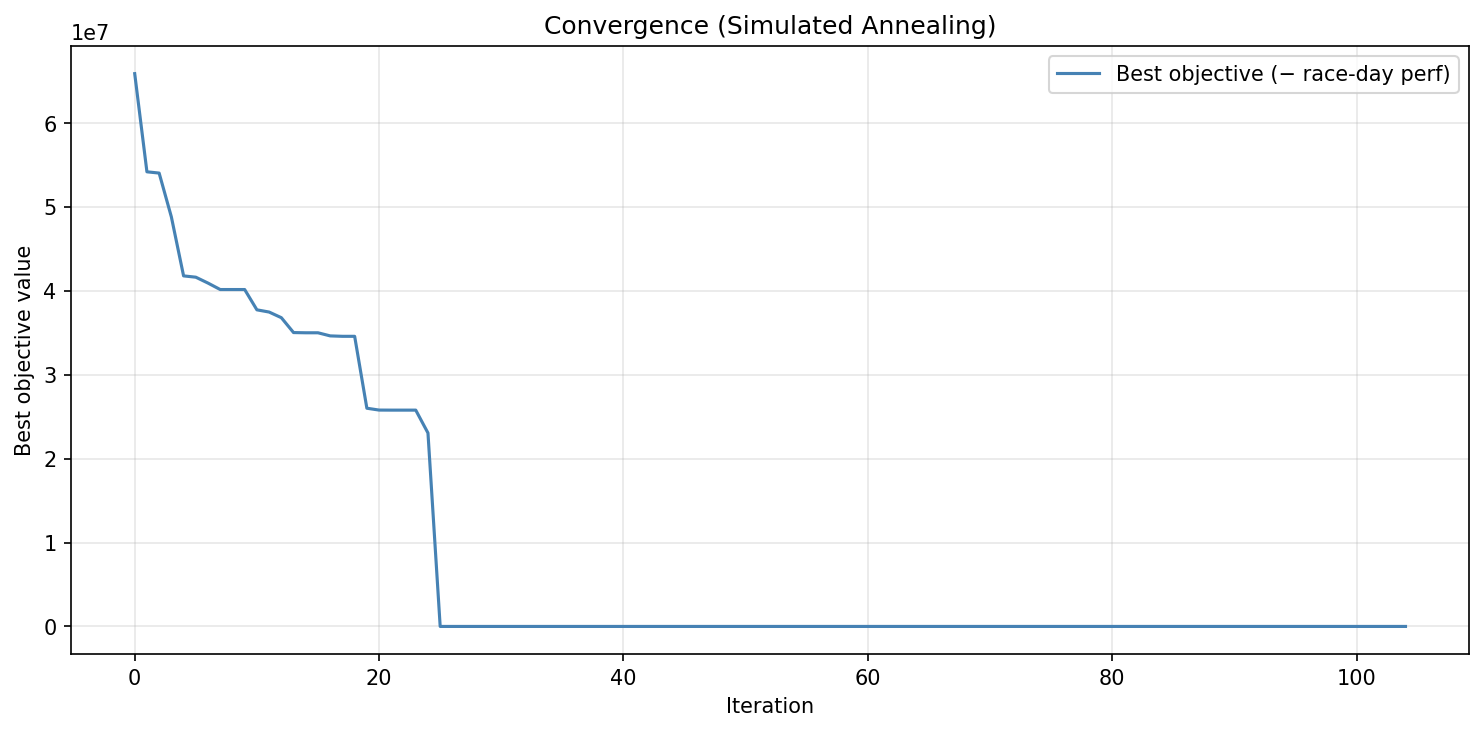
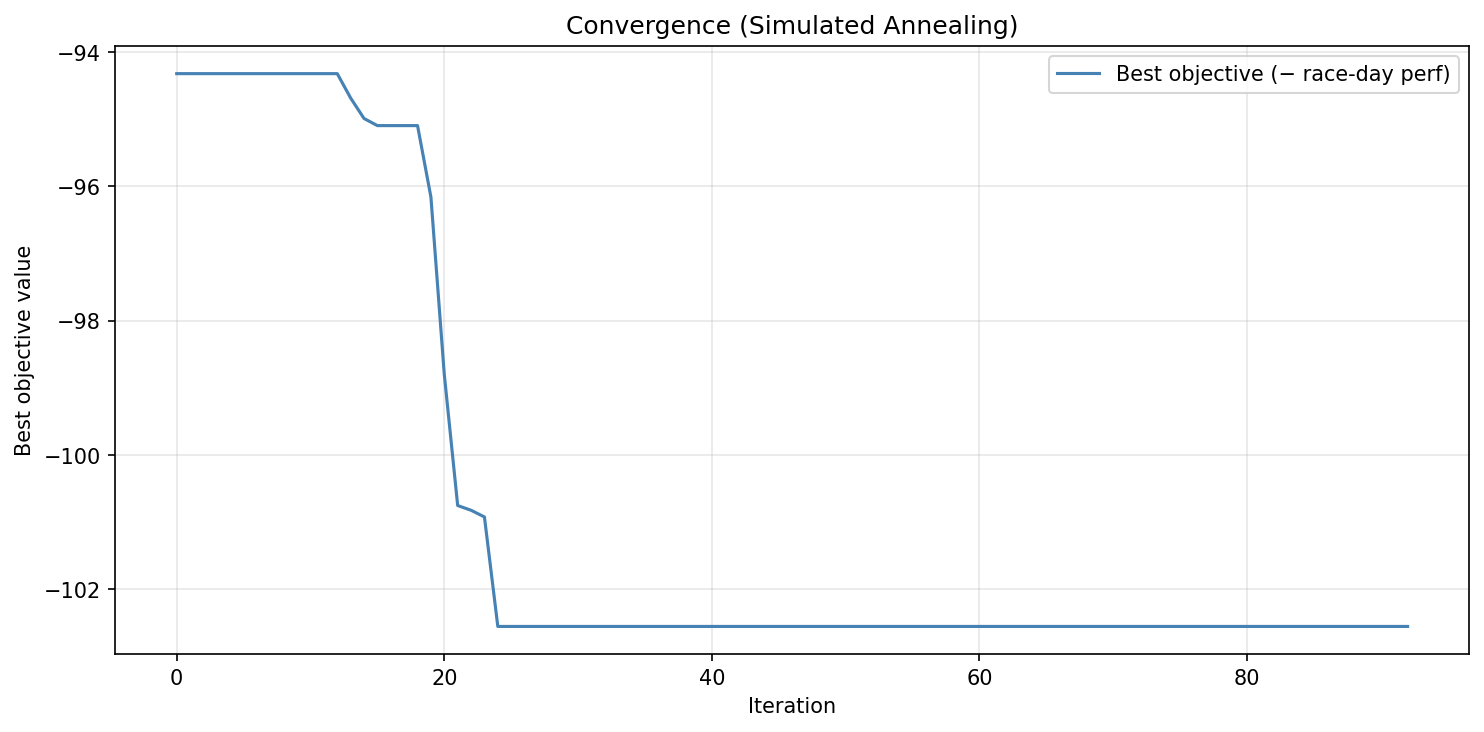
fix SA convergence plot

diff --git a/optimize_sa.py b/optimize_sa.py
@@ -134,8 +134,10 @@ if __name__ == "__main__":
     _best_so_far = [np.inf]
 
     def _sa_callback(x, f, context):
-        if f < _best_so_far[0]:
-            _best_so_far[0] = f
+        perf, _, _, _ = simulate_busso(x.copy(), params_busso)
+        objective = -perf[-1]
+        if objective < _best_so_far[0]:
+            _best_so_far[0] = objective
         _convergence_history.append(_best_so_far[0])
 
     res_penalty = dual_annealing(
